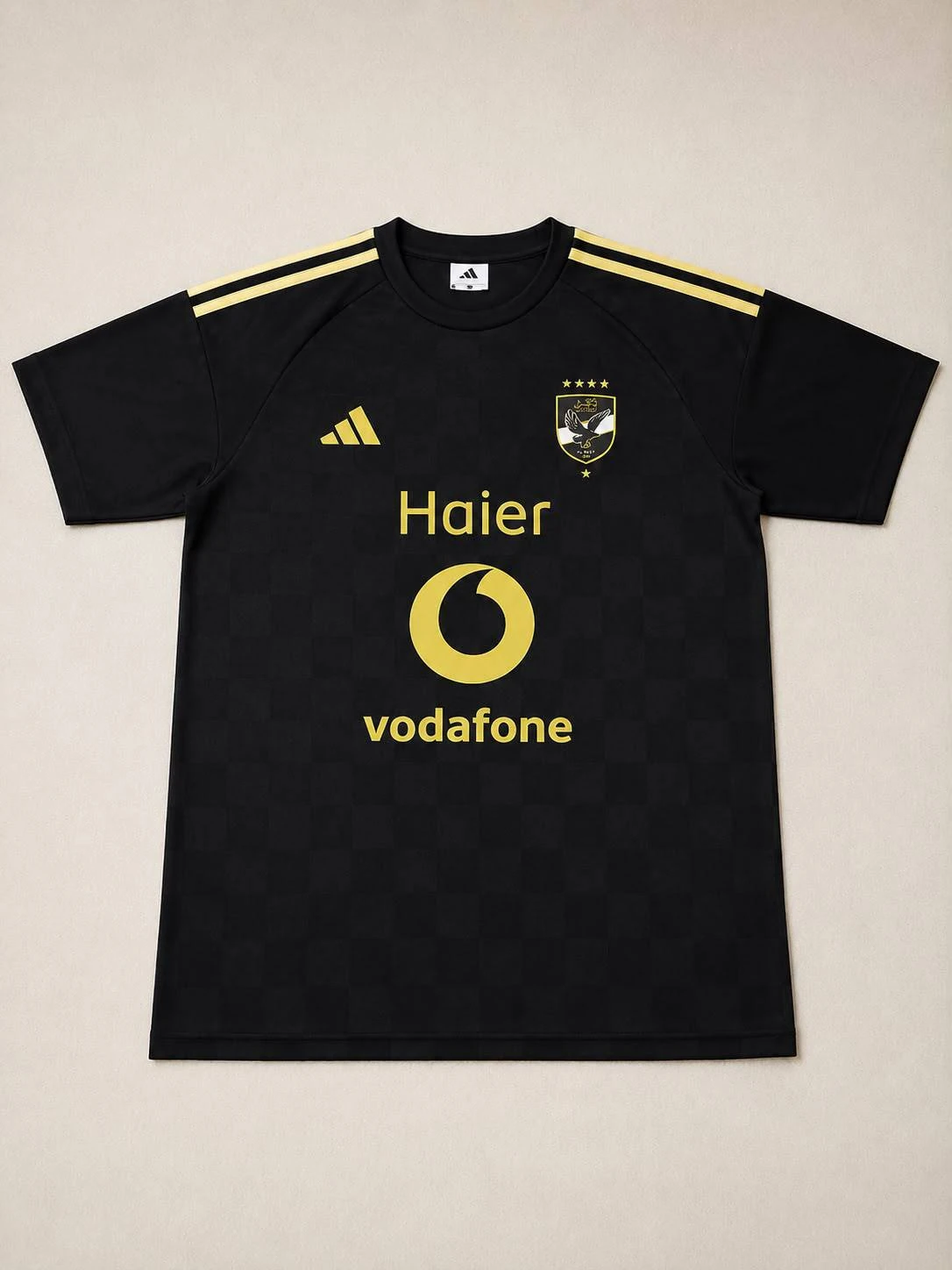
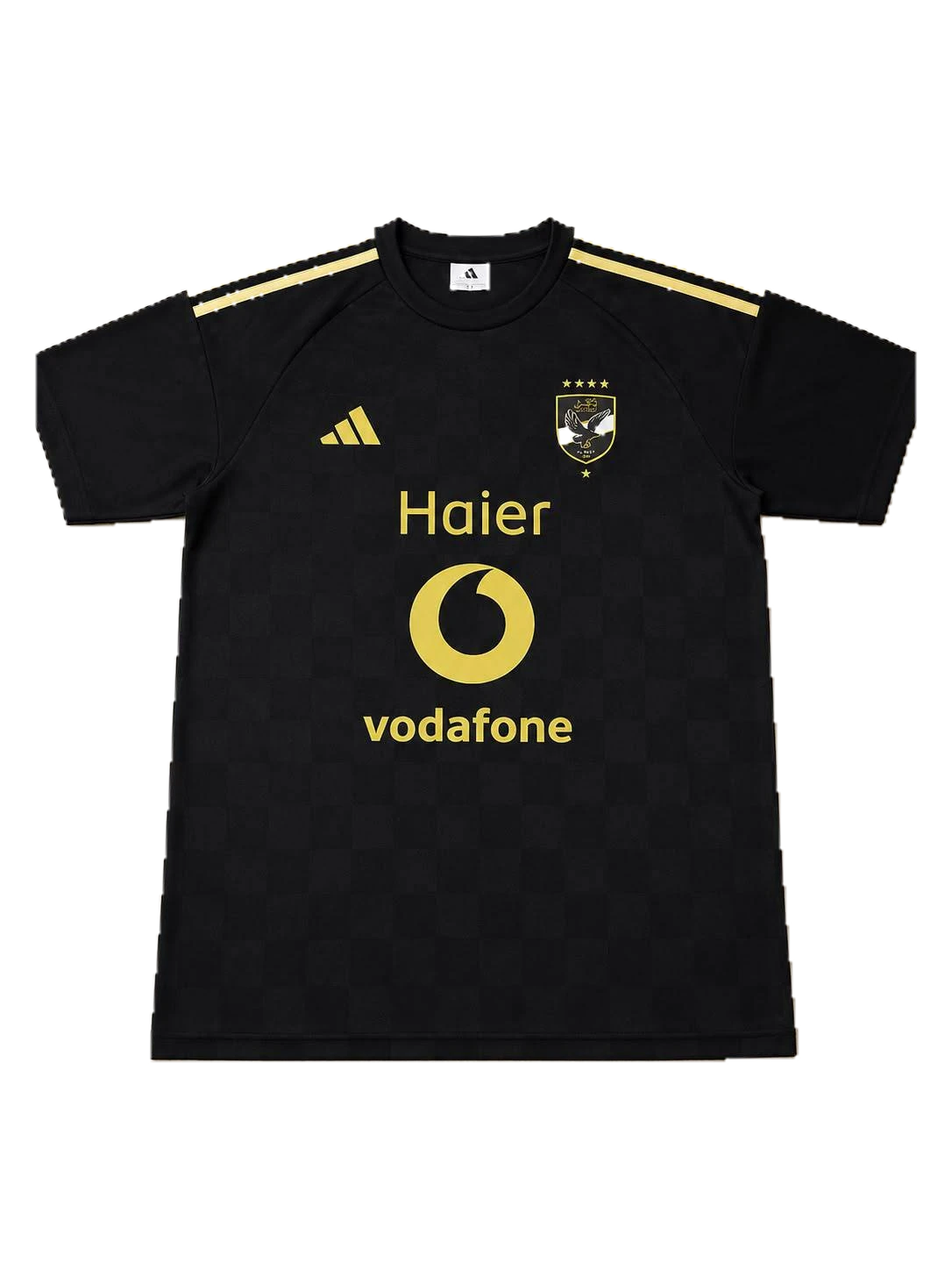
Add files via upload

diff --git a/index.html b/index.html
@@ -44,10 +44,10 @@
     .hero{padding:67px 0 42px;min-height:600px;display:grid;grid-template-columns:1fr .92fr;align-items:center;gap:66px;position:relative}.hero-copy{position:relative;z-index:2;animation:slideDown .8s var(--ease) both}.eyebrow{display:flex;align-items:center;gap:10px;color:#b5b6b8;font-size:10px;font-weight:800;letter-spacing:.06em}.eyebrow-line{width:25px;height:1px;background:var(--accent)}.hero h1{margin:24px 0 17px;font-weight:900;letter-spacing:-.065em;font-size:clamp(46px,6.3vw,88px);line-height:1.15}.hero h1 span{color:transparent;-webkit-text-stroke:1px rgba(245,245,240,.8)}.hero h1 .period{color:var(--accent);-webkit-text-stroke:0}.hero-desc{max-width:460px;color:#a8a9ac;font-size:14px;line-height:2.05;margin:0}.hero-actions{display:flex;align-items:center;gap:12px;flex-wrap:wrap;margin-top:28px}.btn{display:inline-flex;align-items:center;justify-content:center;gap:13px;min-height:49px;padding:0 19px;border:1px solid transparent;font-size:12px;font-weight:900;transition:transform .25s,box-shadow .25s,background .25s}.btn:hover{transform:translateY(-3px)}.btn-primary{background:var(--accent);color:#10120b}.btn-primary:hover{box-shadow:0 9px 28px rgba(255,255,255,.17)}.btn-secondary{border-color:rgba(255,255,255,.2);color:#eee}.btn-secondary:hover{background:#191a1c}.hero-details{display:flex;align-items:center;gap:19px;margin-top:43px;padding-top:18px;border-top:1px solid var(--line);max-width:510px}.detail{display:flex;align-items:center;gap:9px;color:#adaeb0;font-size:10px;font-weight:700}.detail svg{width:19px;height:19px;stroke:var(--accent);fill:none;stroke-width:1.6;flex-shrink:0}.detail-sep{height:27px;width:1px;background:var(--line)}
     .hero-visual{position:relative;justify-self:center;width:min(100%,445px);animation:floatIn 1s .12s var(--ease) both}.hero-glow{position:absolute;inset:10% -8% 7%;background:radial-gradient(ellipse,rgba(255,255,255,.16),transparent 69%);filter:blur(26px);pointer-events:none}.hero-frame{position:relative;overflow:hidden;border:1px solid rgba(255,255,255,.19);background:transparent;box-shadow:0 32px 90px rgba(0,0,0,.5);transform:rotate(-1deg);translate:0 0;animation:heroDrift 5.8s ease-in-out 1.2s infinite;transition:transform .5s var(--ease),box-shadow .5s}.hero-frame:hover{transform:rotate(0) scale(1.015);box-shadow:0 30px 90px rgba(255,255,255,.1)}.hero-frame img{display:block;width:100%;height:auto;object-fit:contain;filter:drop-shadow(0 25px 26px rgba(0,0,0,.42))}.hero-badge{position:absolute;top:15px;right:15px;padding:8px 12px;background:rgba(8,9,10,.89);font-size:9px;font-weight:900;letter-spacing:.08em}.hero-badge i{display:inline-block;width:6px;height:6px;border-radius:50%;background:var(--accent);margin-left:7px}.hero-image-label{position:absolute;bottom:15px;left:15px;padding:10px 12px;background:#111214;color:#fff;font-size:10px;font-weight:800}.hero-sticker{position:absolute;left:-32px;bottom:48px;z-index:3;padding:13px 17px;background:#161719;border:1px solid rgba(255,255,255,.14);box-shadow:0 14px 40px rgba(0,0,0,.35);transform:rotate(2deg)}.hero-sticker small{display:block;color:#a0a1a3;font-size:9px}.hero-sticker strong{font-size:14px}.hero-sticker strong span{color:var(--accent)}.hero-index{position:absolute;right:-32px;top:18%;writing-mode:vertical-rl;color:#77797c;font-size:8px;letter-spacing:.15em}
     .ticker{overflow:hidden;border-block:1px solid var(--line);background:#111214}.ticker-track{display:flex;justify-content:space-around;align-items:center;gap:28px;min-width:max-content;width:max-content;padding:14px 20px;color:#a7a8aa;font-size:10px;font-weight:900;letter-spacing:.08em;animation:tickerMarquee 30s linear infinite;will-change:transform}.ticker:hover .ticker-track{animation-play-state:paused}.ticker-track i{font-style:normal;color:var(--accent);font-size:14px}
-    .collection{padding:93px 0 100px}.section-top{display:flex;align-items:flex-end;justify-content:space-between;gap:24px;margin-bottom:31px}.section-kicker{font-size:10px;letter-spacing:.07em;color:#a0a1a4;font-weight:900}.section-kicker span{color:var(--accent)}.section-heading{margin:10px 0 0;font-size:clamp(34px,4.8vw,57px);font-weight:900;letter-spacing:-.065em;line-height:1.22}.section-heading span{color:transparent;-webkit-text-stroke:1px rgba(245,245,240,.72)}.section-intro{max-width:315px;color:#9a9b9e;font-size:12px;line-height:2;margin:0 0 5px}.collection-toolbar{display:flex;align-items:center;justify-content:space-between;border-block:1px solid var(--line);padding:13px 0;margin-bottom:22px;gap:20px}.collection-caption{color:#b9babc;font-size:11px;font-weight:800}.collection-caption b{color:var(--accent);margin-left:6px}.available{display:flex;align-items:center;gap:8px;color:#aeb0b2;font-size:9px;font-weight:800;letter-spacing:.07em}.available i{width:6px;height:6px;border-radius:50%;background:var(--accent);box-shadow:0 0 10px rgba(255,255,255,.55)}.product-grid{display:grid;grid-template-columns:repeat(3,minmax(0,1fr));gap:17px}.product-card{min-width:0;border:1px solid rgba(255,255,255,.1);background:#101113;transition:border-color .35s,background .35s,transform .18s ease;transform-style:preserve-3d;--rx:0deg;--ry:0deg;transform:perspective(1000px) rotateX(var(--rx)) rotateY(var(--ry));will-change:transform}.product-card:hover{border-color:rgba(255,255,255,.45);background:#141517}.product-visual{position:relative;overflow:hidden;background:radial-gradient(ellipse at 50% 42%,#222426 0%,#131416 48%,#0d0e0f 100%);isolation:isolate}.product-visual::before{content:"";position:absolute;z-index:1;top:-100%;left:-55%;width:34%;height:300%;pointer-events:none;opacity:0;background:linear-gradient(90deg,transparent,rgba(255,255,255,.18),transparent);transform:rotate(24deg);transition:transform .9s var(--ease),opacity .25s}.product-card:hover .product-visual::before{opacity:1;transform:translateX(460%) rotate(24deg)}.product-visual::after{content:"";position:absolute;inset:0;pointer-events:none;background:linear-gradient(180deg,rgba(0,0,0,.05),transparent 22%,transparent 76%,rgba(0,0,0,.12));opacity:.35;transition:opacity .25s}.product-card:hover .product-visual::after{opacity:.45}.product-image{display:block;width:100%;aspect-ratio:3/4;object-fit:contain;padding:11px 6px;filter:drop-shadow(0 18px 18px rgba(0,0,0,.42));transition:transform .7s var(--ease),filter .7s;will-change:transform;translate:0 0;animation:productDrift 6s ease-in-out infinite}.product-card:nth-child(2) .product-image{animation-delay:-2s}.product-card:nth-child(3) .product-image{animation-delay:-4s}.product-card:hover .product-image{transform:scale(1.045);filter:contrast(1.03) drop-shadow(0 18px 20px rgba(255,255,255,.08))}.product-index{position:absolute;z-index:2;top:13px;right:13px;padding:7px 9px;background:rgba(9,10,11,.84);color:#f2f2ef;font-size:9px;font-weight:900;direction:ltr}.product-tag{position:absolute;z-index:2;top:13px;left:13px;padding:6px 9px;background:var(--accent);color:#10120b;font-size:8px;font-weight:900}.product-bottomline{position:absolute;bottom:0;right:0;left:0;z-index:2;display:flex;align-items:center;justify-content:space-between;padding:12px 13px;color:#f5f5f1;font-size:8px;font-weight:900;letter-spacing:.05em;background:linear-gradient(0deg,rgba(0,0,0,.8),transparent)}.product-info{display:flex;align-items:flex-start;justify-content:space-between;gap:12px;padding:18px 17px 10px}.product-type{margin:0 0 5px;color:#a5a7a9;font-size:9px;font-weight:800;letter-spacing:.06em}.product-name{margin:0;font-size:17px;line-height:1.6;font-weight:900}.product-description{margin:4px 0 0;color:#85878a;font-size:11px}.product-number{white-space:nowrap;color:#787a7c;font-size:9px;font-weight:800;direction:ltr;margin-top:6px}.view-btn{display:flex;align-items:center;justify-content:space-between;gap:10px;width:calc(100% - 34px);margin:12px 17px 17px;padding:12px 13px;border:1px solid rgba(255,255,255,.15);background:transparent;color:#f3f3ef;cursor:pointer;text-align:right;font-size:11px;font-weight:800;transition:background .25s,border-color .25s}.view-btn:hover{background:#1b1d1f;border-color:rgba(255,255,255,.4)}.view-btn span:last-child{color:var(--accent);font-size:17px;line-height:1}
+    .collection{padding:93px 0 100px}.section-top{display:flex;align-items:flex-end;justify-content:space-between;gap:24px;margin-bottom:31px}.section-kicker{font-size:10px;letter-spacing:.07em;color:#a0a1a4;font-weight:900}.section-kicker span{color:var(--accent)}.section-heading{margin:10px 0 0;font-size:clamp(34px,4.8vw,57px);font-weight:900;letter-spacing:-.065em;line-height:1.22}.section-heading span{color:transparent;-webkit-text-stroke:1px rgba(245,245,240,.72)}.section-intro{max-width:315px;color:#9a9b9e;font-size:12px;line-height:2;margin:0 0 5px}.collection-toolbar{display:flex;align-items:center;justify-content:space-between;border-block:1px solid var(--line);padding:13px 0;margin-bottom:22px;gap:20px}.collection-caption{color:#b9babc;font-size:11px;font-weight:800}.collection-caption b{color:var(--accent);margin-left:6px}.available{display:flex;align-items:center;gap:8px;color:#aeb0b2;font-size:9px;font-weight:800;letter-spacing:.07em}.available i{width:6px;height:6px;border-radius:50%;background:var(--accent);box-shadow:0 0 10px rgba(255,255,255,.55)}.product-grid{display:grid;grid-template-columns:repeat(3,minmax(0,1fr));gap:17px}.product-card{min-width:0;border:1px solid rgba(255,255,255,.1);background:#101113;transition:border-color .35s,background .35s,transform .18s ease;transform-style:preserve-3d;--rx:0deg;--ry:0deg;transform:perspective(1000px) rotateX(var(--rx)) rotateY(var(--ry));will-change:transform}.product-card:hover{border-color:rgba(255,255,255,.45);background:#141517}.product-visual{position:relative;overflow:hidden;background:radial-gradient(ellipse at 50% 42%,#222426 0%,#131416 48%,#0d0e0f 100%);isolation:isolate}.product-visual::before{content:"";position:absolute;z-index:1;top:-100%;left:-55%;width:34%;height:300%;pointer-events:none;opacity:0;background:linear-gradient(90deg,transparent,rgba(255,255,255,.18),transparent);transform:rotate(24deg);transition:transform .9s var(--ease),opacity .25s}.product-card:hover .product-visual::before{opacity:1;transform:translateX(460%) rotate(24deg)}.product-visual::after{content:"";position:absolute;inset:0;pointer-events:none;background:linear-gradient(180deg,rgba(0,0,0,.05),transparent 22%,transparent 76%,rgba(0,0,0,.12));opacity:.35;transition:opacity .25s}.product-card:hover .product-visual::after{opacity:.45}.product-image{display:block;width:100%;aspect-ratio:3/4;object-fit:contain;padding:11px 6px;filter:drop-shadow(0 18px 18px rgba(0,0,0,.42));transition:transform .7s var(--ease),filter .7s;will-change:transform;translate:0 0;animation:productDrift 6s ease-in-out infinite}.product-card:nth-child(2) .product-image{animation-delay:-2s}.product-card:nth-child(3) .product-image{animation-delay:-4s}.product-card:hover .product-image{transform:scale(1.045);filter:contrast(1.03) drop-shadow(0 18px 20px rgba(255,255,255,.08))}.product-index{position:absolute;z-index:2;top:13px;right:13px;padding:7px 9px;background:rgba(9,10,11,.84);color:#f2f2ef;font-size:9px;font-weight:900;direction:ltr}.product-tag{position:absolute;z-index:2;top:13px;left:13px;padding:6px 9px;background:var(--accent);color:#10120b;font-size:8px;font-weight:900}.product-bottomline{position:absolute;bottom:0;right:0;left:0;z-index:2;display:flex;align-items:center;justify-content:space-between;padding:12px 13px;color:#f5f5f1;font-size:8px;font-weight:900;letter-spacing:.05em;background:linear-gradient(0deg,rgba(0,0,0,.8),transparent)}.product-info{display:flex;align-items:flex-start;justify-content:space-between;gap:12px;padding:18px 17px 10px}.product-type{margin:0 0 5px;color:#a5a7a9;font-size:9px;font-weight:800;letter-spacing:.06em}.product-name{margin:0;font-size:17px;line-height:1.6;font-weight:900}.product-description{margin:4px 0 0;color:#85878a;font-size:11px}.product-price{margin:11px 0 0;color:var(--accent);font-size:18px;font-weight:950;letter-spacing:-.02em}.product-price small{font-size:10px;font-weight:800;color:#bfc1c2}.product-number{white-space:nowrap;color:#787a7c;font-size:9px;font-weight:800;direction:ltr;margin-top:6px}.view-btn{display:flex;align-items:center;justify-content:space-between;gap:10px;width:calc(100% - 34px);margin:12px 17px 17px;padding:12px 13px;border:1px solid rgba(255,255,255,.15);background:transparent;color:#f3f3ef;cursor:pointer;text-align:right;font-size:11px;font-weight:800;transition:background .25s,border-color .25s}.view-btn:hover{background:#1b1d1f;border-color:rgba(255,255,255,.4)}.view-btn span:last-child{color:var(--accent);font-size:17px;line-height:1}
     .location{padding:0 0 100px}.location-panel{position:relative;overflow:hidden;display:grid;grid-template-columns:1fr auto;align-items:center;gap:30px;padding:36px 39px;border:1px solid rgba(255,255,255,.13);background:linear-gradient(115deg,#151719,#0f1011 70%)}.location-panel::after{content:"S7";position:absolute;left:24%;top:-76px;font-size:280px;font-weight:900;line-height:1;color:rgba(255,255,255,.025);pointer-events:none;direction:ltr}.location-copy{position:relative;z-index:1}.location-label{display:flex;align-items:center;gap:9px;color:#a7a9ab;font-size:10px;font-weight:900}.location-label svg{width:17px;height:17px;stroke:var(--accent);fill:none;stroke-width:1.7}.location-title{margin:10px 0 8px;font-size:clamp(27px,3.5vw,43px);line-height:1.35;font-weight:900;letter-spacing:-.05em}.location-address{margin:0;max-width:650px;color:#a9aaac;font-size:13px;line-height:2}.location-hint{margin:8px 0 0;color:#7f8184;font-size:11px}.location-actions{position:relative;z-index:1;display:flex;flex-direction:column;gap:10px;min-width:190px}.location-actions .btn{white-space:nowrap}.social{padding:0 0 85px}.social-panel{display:flex;align-items:center;justify-content:space-between;gap:22px;padding:21px 0;border-top:1px solid var(--line);border-bottom:1px solid var(--line)}.social-copy small{display:block;color:#a5a6a8;font-size:9px;font-weight:900;letter-spacing:.08em}.social-copy h2{margin:3px 0 0;font-size:clamp(21px,3vw,30px);font-weight:900}.social-copy h2 span{color:var(--accent);direction:ltr;unicode-bidi:isolate}.instagram-button{display:inline-flex;align-items:center;justify-content:center;gap:10px;min-height:48px;padding:0 18px;border:1px solid rgba(255,255,255,.2);font-size:11px;font-weight:900;transition:background .2s,border .2s}.instagram-button:hover{background:#191a1c;border-color:rgba(255,255,255,.45)}.instagram-button svg{width:19px;height:19px;fill:none;stroke:currentColor;stroke-width:1.7}
     footer{border-top:1px solid var(--line);padding:24px 0 27px}.footer-top,.footer-bottom{display:flex;align-items:center;justify-content:space-between;gap:20px}.footer-motto{color:#85878a;font-size:9px;font-weight:800;letter-spacing:.07em}.footer-bottom{margin-top:22px;padding-top:16px;border-top:1px solid rgba(255,255,255,.07);color:#747679;font-size:9px;font-weight:800}.footer-links{display:flex;align-items:center;gap:20px}.footer-links a:hover{color:var(--accent)}
-    .modal{position:fixed;inset:0;z-index:80;display:none;align-items:center;justify-content:center;padding:20px;background:rgba(0,0,0,.86);backdrop-filter:blur(10px)}.modal.open{display:flex;animation:fadeIn .2s ease both}.modal-content{position:relative;display:grid;grid-template-columns:minmax(0,520px) minmax(200px,310px);max-width:min(930px,100%);max-height:90vh;border:1px solid rgba(255,255,255,.2);background:#111214;box-shadow:0 35px 100px #000;animation:modalIn .28s var(--ease) both;direction:rtl}.modal-image-wrap{background:radial-gradient(ellipse at 50% 40%,#232527,#101112 72%);min-width:0;overflow:hidden}.modal-image{display:block;max-height:90vh;width:100%;height:100%;object-fit:contain;aspect-ratio:1/1;padding:14px;filter:drop-shadow(0 18px 20px rgba(0,0,0,.35))}.modal-info{align-self:center;padding:30px}.modal-kicker{color:var(--accent);font-size:10px;font-weight:900}.modal-title{margin:10px 0;font-size:27px;font-weight:900;line-height:1.5}.modal-desc{color:#a1a3a5;font-size:12px;line-height:2}.modal-actions{display:flex;flex-direction:column;gap:10px;margin-top:22px}.close-modal{position:absolute;top:12px;left:12px;z-index:2;width:40px;height:40px;border:1px solid rgba(255,255,255,.25);background:#111214;color:white;font-size:25px;cursor:pointer}.toast{position:fixed;right:50%;bottom:23px;z-index:100;transform:translate(50%,20px);padding:11px 17px;background:var(--accent);color:#10120b;font-size:12px;font-weight:900;opacity:0;pointer-events:none;transition:opacity .2s,transform .2s}.toast.show{opacity:1;transform:translate(50%,0)}
+    .modal{position:fixed;inset:0;z-index:80;display:none;align-items:center;justify-content:center;padding:20px;background:rgba(0,0,0,.86);backdrop-filter:blur(10px)}.modal.open{display:flex;animation:fadeIn .2s ease both}.modal-content{position:relative;display:grid;grid-template-columns:minmax(0,520px) minmax(200px,310px);max-width:min(930px,100%);max-height:90vh;border:1px solid rgba(255,255,255,.2);background:#111214;box-shadow:0 35px 100px #000;animation:modalIn .28s var(--ease) both;direction:rtl}.modal-image-wrap{background:radial-gradient(ellipse at 50% 40%,#232527,#101112 72%);min-width:0;overflow:hidden}.modal-image{display:block;max-height:90vh;width:100%;height:100%;object-fit:contain;aspect-ratio:1/1;padding:14px;filter:drop-shadow(0 18px 20px rgba(0,0,0,.35))}.modal-info{align-self:center;padding:30px}.modal-kicker{color:var(--accent);font-size:10px;font-weight:900}.modal-title{margin:10px 0;font-size:27px;font-weight:900;line-height:1.5}.modal-price{margin:13px 0 0;color:var(--accent);font-size:25px;font-weight:950;letter-spacing:-.035em}.modal-price small{font-size:12px;color:#c6c7c8;font-weight:800}.modal-desc{color:#a1a3a5;font-size:12px;line-height:2}.modal-actions{display:flex;flex-direction:column;gap:10px;margin-top:22px}.close-modal{position:absolute;top:12px;left:12px;z-index:2;width:40px;height:40px;border:1px solid rgba(255,255,255,.25);background:#111214;color:white;font-size:25px;cursor:pointer}.toast{position:fixed;right:50%;bottom:23px;z-index:100;transform:translate(50%,20px);padding:11px 17px;background:var(--accent);color:#10120b;font-size:12px;font-weight:900;opacity:0;pointer-events:none;transition:opacity .2s,transform .2s}.toast.show{opacity:1;transform:translate(50%,0)}
     .reveal{opacity:0;transform:translateY(18px);transition:opacity .7s var(--ease),transform .7s var(--ease)}.reveal.visible{opacity:1;transform:translateY(0)}.product-card.reveal{transition-delay:var(--delay,0ms);transform:perspective(1000px) rotateX(var(--rx)) rotateY(var(--ry)) translateY(18px)}.product-card.reveal.visible{transform:perspective(1000px) rotateX(var(--rx)) rotateY(var(--ry)) translateY(0)}
     @keyframes slideDown{from{opacity:0;transform:translateY(-22px)}to{opacity:1;transform:translateY(0)}}@keyframes floatIn{from{opacity:0;transform:translateY(25px) rotate(-3deg)}to{opacity:1;transform:translateY(0) rotate(-1deg)}}@keyframes heroDrift{0%,100%{translate:0 0}50%{translate:0 -9px}}@keyframes productDrift{0%,100%{translate:0 0}50%{translate:0 -5px}}@keyframes tickerMarquee{from{transform:translateX(0)}to{transform:translateX(-50%)}}@keyframes cardEnter{from{opacity:0;transform:translateY(20px) perspective(1000px) rotateX(0) rotateY(0)}to{opacity:1;transform:perspective(1000px) rotateX(var(--rx)) rotateY(var(--ry))}}@keyframes fadeIn{from{opacity:0}to{opacity:1}}@keyframes modalIn{from{opacity:0;transform:translateY(12px) scale(.98)}to{opacity:1;transform:translateY(0) scale(1)}}
     @media(max-width:900px){.wrap{width:min(var(--max),calc(100% - 36px))}.header-inner{height:72px}.nav{gap:16px}.nav a{font-size:11px}.brand{min-width:auto}.brand-name{font-size:19px}.hero{gap:30px;min-height:520px;padding-top:48px}.hero h1{font-size:clamp(42px,6vw,65px)}.hero-details{gap:12px}.product-grid{gap:12px}.product-info{padding:14px 12px 8px}.product-name{font-size:15px}.view-btn{width:calc(100% - 24px);margin:10px 12px 12px}}
@@ -308,17 +308,17 @@
       </div>
       <p class="filter-empty" id="filter-empty" hidden>مفيش تصميمات في الاختيار ده حاليًا.</p>
       <div class="product-grid">
-        <article class="product-card reveal" data-team="barcelona" style="--delay:0ms"><div class="product-visual"><span class="product-index">01 / S7</span><span class="product-tag">برشلونة</span><img class="product-image" src="assets/products/barcelona-contrast.webp" alt="تيشرت برشلونة الرمادي الفاتح بأكمام سوداء" loading="lazy" decoding="async"><div class="product-bottomline"><span>رمادي × أسود</span><span>SE7EN</span></div></div><div class="product-info"><div><p class="product-type">ستايل كروي</p><h3 class="product-name">تيشرت برشلونة</h3><p class="product-description">تصميم رياضي رمادي وأسود بطابع برشلوني</p></div><span class="product-number">01</span></div><button class="view-btn" type="button" data-product="barcelona"><span>عرض الصورة والتفاصيل</span><span>↗</span></button></article>
-        <article class="product-card reveal" data-team="ahly" style="--delay:70ms"><div class="product-visual"><span class="product-index">02 / S7</span><span class="product-tag">الأهلي</span><img class="product-image" src="assets/products/al-ahly-pharaonic.webp" alt="تيشرت الأهلي الأسود بتفاصيل ذهبية وحمراء بطابع فرعوني" loading="lazy" decoding="async"><div class="product-bottomline"><span>أسود × ذهبي × أحمر</span><span>SE7EN</span></div></div><div class="product-info"><div><p class="product-type">تفاصيل فرعونية</p><h3 class="product-name">تيشرت الأهلي الفرعوني</h3><p class="product-description">تصميم أسود بلمسات ذهبية وحمراء ورسومات بطابع فرعوني</p></div><span class="product-number">02</span></div><button class="view-btn" type="button" data-product="ahly"><span>عرض الصورة والتفاصيل</span><span>↗</span></button></article>
-        <article class="product-card reveal" data-team="zamalek" style="--delay:140ms"><div class="product-visual"><span class="product-index">03 / S7</span><span class="product-tag">الزمالك</span><img class="product-image" src="assets/products/nile-developments.webp" alt="تيشرت الزمالك الأسود بخطوط خضراء فوسفورية" loading="lazy" decoding="async"><div class="product-bottomline"><span>أسود × أخضر فوسفوري</span><span>SE7EN</span></div></div><div class="product-info"><div><p class="product-type">ستايل رياضي</p><h3 class="product-name">تيشرت الزمالك الأسود</h3><p class="product-description">تصميم أسود بخطوط خضراء فوسفورية وتفاصيل رياضية لافتة</p></div><span class="product-number">03</span></div><button class="view-btn" type="button" data-product="nile"><span>عرض الصورة والتفاصيل</span><span>↗</span></button></article>
-        <article class="product-card reveal" data-team="zamalek" style="--delay:210ms"><div class="product-visual"><span class="product-index">04 / S7</span><span class="product-tag">الزمالك</span><img class="product-image" src="assets/products/zamalek-white-red-gallery.webp" alt="تيشرت الزمالك الأبيض بتفاصيل حمراء" loading="lazy" decoding="async"><div class="product-bottomline"><span>أبيض × أحمر</span><span>SE7EN</span></div></div><div class="product-info"><div><p class="product-type">ألوان النادي</p><h3 class="product-name">تيشرت الزمالك الأبيض</h3><p class="product-description">تصميم أبيض بخطوط جانبية حمراء وتفاصيل رياضية</p></div><span class="product-number">04</span></div><button class="view-btn" type="button" data-product="zamalek-white"><span>عرض الصورة والتفاصيل</span><span>↗</span></button></article>
-        <article class="product-card reveal" data-team="ahly" style="--delay:280ms"><div class="product-visual"><span class="product-index">05 / S7</span><span class="product-tag">الأهلي</span><img class="product-image" src="assets/products/al-ahly-black-gold-gallery.webp" alt="تيشرت الأهلي الأسود بخطوط وتفاصيل ذهبية" loading="lazy" decoding="async"><div class="product-bottomline"><span>أسود × ذهبي</span><span>SE7EN</span></div></div><div class="product-info"><div><p class="product-type">كلاسيك داكن</p><h3 class="product-name">تيشرت الأهلي الأسود والذهبي</h3><p class="product-description">قميص أسود بخطوط ذهبية وشعار النادي وتفاصيل كلاسيكية</p></div><span class="product-number">05</span></div><button class="view-btn" type="button" data-product="ahly-black-gold"><span>عرض الصورة والتفاصيل</span><span>↗</span></button></article>
-        <article class="product-card reveal" data-team="ahly" style="--delay:350ms"><div class="product-visual"><span class="product-index">06 / S7</span><span class="product-tag">الأهلي</span><img class="product-image" src="assets/products/al-ahly-red-classic-gallery.webp" alt="تيشرت الأهلي الأحمر الكلاسيكي بخطوط سوداء" loading="lazy" decoding="async"><div class="product-bottomline"><span>أحمر × أسود</span><span>SE7EN</span></div></div><div class="product-info"><div><p class="product-type">كلاسيك النادي</p><h3 class="product-name">تيشرت الأهلي الأحمر</h3><p class="product-description">تصميم أحمر بخطوط وتفاصيل سوداء بطابع كروي كلاسيكي</p></div><span class="product-number">06</span></div><button class="view-btn" type="button" data-product="ahly-red"><span>عرض الصورة والتفاصيل</span><span>↗</span></button></article>
-        <article class="product-card reveal" data-team="brazil" style="--delay:420ms"><div class="product-visual"><span class="product-index">07 / S7</span><span class="product-tag">البرازيل</span><img class="product-image" src="assets/products/brazil-ronaldo9-gallery.webp" alt="قميص البرازيل الأسود والأصفر باسم رونالدو ورقم 9 من الأمام والخلف" loading="lazy" decoding="async"><div class="product-bottomline"><span>أسود × أصفر</span><span>RONALDO 9</span></div></div><div class="product-info"><div><p class="product-type">أساطير الكرة</p><h3 class="product-name">تيشرت البرازيل — رونالدو 9</h3><p class="product-description">تصميم أسود بتفاصيل صفراء مع اسم رونالدو ورقم 9، ويعرض الأمام والخلف</p></div><span class="product-number">07</span></div><button class="view-btn" type="button" data-product="brazil-ronaldo"><span>عرض الصورة والتفاصيل</span><span>↗</span></button></article>
-        <article class="product-card reveal" data-team="manutd" style="--delay:490ms"><div class="product-visual"><span class="product-index">08 / S7</span><span class="product-tag">مانشستر يونايتد</span><img class="product-image" src="assets/products/man-utd-black-aig-gallery.webp" alt="تيشرت مانشستر يونايتد الأسود الكلاسيكي بشعار AIG من الأمام والخلف" loading="lazy" decoding="async"><div class="product-bottomline"><span>أسود × أبيض</span><span>MAN UNITED</span></div></div><div class="product-info"><div><p class="product-type">كلاسيك أوروبي</p><h3 class="product-name">تيشرت مانشستر يونايتد الأسود</h3><p class="product-description">نسخة سوداء كلاسيكية بشعار AIG، مع عرض الأمام والخلف</p></div><span class="product-number">08</span></div><button class="view-btn" type="button" data-product="manutd-black"><span>عرض الصورة والتفاصيل</span><span>↗</span></button></article>
-        <article class="product-card reveal" data-team="manutd" style="--delay:560ms"><div class="product-visual"><span class="product-index">09 / S7</span><span class="product-tag">مانشستر يونايتد</span><img class="product-image" src="assets/products/man-utd-red-aig-gallery.webp" alt="تيشرت مانشستر يونايتد الأحمر الكلاسيكي بشعار AIG من الأمام والخلف" loading="lazy" decoding="async"><div class="product-bottomline"><span>أحمر × أبيض</span><span>MAN UNITED</span></div></div><div class="product-info"><div><p class="product-type">ألوان الشياطين الحمر</p><h3 class="product-name">تيشرت مانشستر يونايتد الأحمر</h3><p class="product-description">القميص الأحمر الكلاسيكي بشعار AIG وتفاصيل النادي</p></div><span class="product-number">09</span></div><button class="view-btn" type="button" data-product="manutd-red"><span>عرض الصورة والتفاصيل</span><span>↗</span></button></article>
-        <article class="product-card reveal" data-team="trabzonspor" style="--delay:630ms"><div class="product-visual"><span class="product-index">10 / S7</span><span class="product-tag">طرابزون سبور</span><img class="product-image" src="assets/products/trabzonspor-black-blue-gallery.webp" alt="تيشرت طرابزون سبور الأسود بتفاصيل زرقاء فاتحة" loading="lazy" decoding="async"><div class="product-bottomline"><span>أسود × أزرق</span><span>TRABZONSPOR</span></div></div><div class="product-info"><div><p class="product-type">ستايل تركي</p><h3 class="product-name">تيشرت طرابزون سبور</h3><p class="product-description">تصميم أسود مع أكتاف وتفاصيل زرقاء فاتحة</p></div><span class="product-number">10</span></div><button class="view-btn" type="button" data-product="trabzonspor"><span>عرض الصورة والتفاصيل</span><span>↗</span></button></article>
-        <article class="product-card reveal" data-team="realmadrid" style="--delay:700ms"><div class="product-visual"><span class="product-index">11 / S7</span><span class="product-tag">ريال مدريد</span><img class="product-image" src="assets/products/real-madrid-black-gallery.webp" alt="تيشرت ريال مدريد الأسود بتفاصيل بيضاء وشعار النادي" loading="lazy" decoding="async"><div class="product-bottomline"><span>أسود × أبيض</span><span>REAL MADRID</span></div></div><div class="product-info"><div><p class="product-type">ستايل ملكي</p><h3 class="product-name">تيشرت ريال مدريد الأسود</h3><p class="product-description">تصميم أسود بشعار ريال مدريد وتفاصيل رياضية كلاسيكية</p></div><span class="product-number">11</span></div><button class="view-btn" type="button" data-product="real-madrid"><span>عرض الصورة والتفاصيل</span><span>↗</span></button></article>
+        <article class="product-card reveal" data-team="barcelona" style="--delay:0ms"><div class="product-visual"><span class="product-index">01 / S7</span><span class="product-tag">برشلونة</span><img class="product-image" src="assets/products/barcelona-contrast.webp" alt="تيشرت برشلونة الرمادي الفاتح بأكمام سوداء" loading="lazy" decoding="async"><div class="product-bottomline"><span>رمادي × أسود</span><span>SE7EN</span></div></div><div class="product-info"><div><p class="product-type">ستايل كروي</p><h3 class="product-name">تيشرت برشلونة</h3><p class="product-description">تصميم رياضي رمادي وأسود بطابع برشلوني</p><p class="product-price">350 جنيه</p></div><span class="product-number">01</span></div><button class="view-btn" type="button" data-product="barcelona"><span>عرض الصورة والتفاصيل</span><span>↗</span></button></article>
+        <article class="product-card reveal" data-team="ahly" style="--delay:70ms"><div class="product-visual"><span class="product-index">02 / S7</span><span class="product-tag">الأهلي</span><img class="product-image" src="assets/products/al-ahly-pharaonic.webp" alt="تيشرت الأهلي الأسود بتفاصيل ذهبية وحمراء بطابع فرعوني" loading="lazy" decoding="async"><div class="product-bottomline"><span>أسود × ذهبي × أحمر</span><span>SE7EN</span></div></div><div class="product-info"><div><p class="product-type">تفاصيل فرعونية</p><h3 class="product-name">تيشرت الأهلي الفرعوني</h3><p class="product-description">تصميم أسود بلمسات ذهبية وحمراء ورسومات بطابع فرعوني</p><p class="product-price">350 جنيه</p></div><span class="product-number">02</span></div><button class="view-btn" type="button" data-product="ahly"><span>عرض الصورة والتفاصيل</span><span>↗</span></button></article>
+        <article class="product-card reveal" data-team="zamalek" style="--delay:140ms"><div class="product-visual"><span class="product-index">03 / S7</span><span class="product-tag">الزمالك</span><img class="product-image" src="assets/products/nile-developments.webp" alt="تيشرت الزمالك الأسود بخطوط خضراء فوسفورية" loading="lazy" decoding="async"><div class="product-bottomline"><span>أسود × أخضر فوسفوري</span><span>SE7EN</span></div></div><div class="product-info"><div><p class="product-type">ستايل رياضي</p><h3 class="product-name">تيشرت الزمالك الأسود</h3><p class="product-description">تصميم أسود بخطوط خضراء فوسفورية وتفاصيل رياضية لافتة</p><p class="product-price">350 جنيه</p></div><span class="product-number">03</span></div><button class="view-btn" type="button" data-product="nile"><span>عرض الصورة والتفاصيل</span><span>↗</span></button></article>
+        <article class="product-card reveal" data-team="zamalek" style="--delay:210ms"><div class="product-visual"><span class="product-index">04 / S7</span><span class="product-tag">الزمالك</span><img class="product-image" src="assets/products/zamalek-white-red-gallery.webp" alt="تيشرت الزمالك الأبيض بتفاصيل حمراء" loading="lazy" decoding="async"><div class="product-bottomline"><span>أبيض × أحمر</span><span>SE7EN</span></div></div><div class="product-info"><div><p class="product-type">ألوان النادي</p><h3 class="product-name">تيشرت الزمالك الأبيض</h3><p class="product-description">تصميم أبيض بخطوط جانبية حمراء وتفاصيل رياضية</p><p class="product-price">350 جنيه</p></div><span class="product-number">04</span></div><button class="view-btn" type="button" data-product="zamalek-white"><span>عرض الصورة والتفاصيل</span><span>↗</span></button></article>
+        <article class="product-card reveal" data-team="ahly" style="--delay:280ms"><div class="product-visual"><span class="product-index">05 / S7</span><span class="product-tag">الأهلي</span><img class="product-image" src="assets/products/al-ahly-black-gold-gallery.webp" alt="تيشرت الأهلي الأسود بخطوط وتفاصيل ذهبية" loading="lazy" decoding="async"><div class="product-bottomline"><span>أسود × ذهبي</span><span>SE7EN</span></div></div><div class="product-info"><div><p class="product-type">كلاسيك داكن</p><h3 class="product-name">تيشرت الأهلي الأسود والذهبي</h3><p class="product-description">قميص أسود بخطوط ذهبية وشعار النادي وتفاصيل كلاسيكية</p><p class="product-price">350 جنيه</p></div><span class="product-number">05</span></div><button class="view-btn" type="button" data-product="ahly-black-gold"><span>عرض الصورة والتفاصيل</span><span>↗</span></button></article>
+        <article class="product-card reveal" data-team="ahly" style="--delay:350ms"><div class="product-visual"><span class="product-index">06 / S7</span><span class="product-tag">الأهلي</span><img class="product-image" src="assets/products/al-ahly-red-classic-gallery.webp" alt="تيشرت الأهلي الأحمر الكلاسيكي بخطوط سوداء" loading="lazy" decoding="async"><div class="product-bottomline"><span>أحمر × أسود</span><span>SE7EN</span></div></div><div class="product-info"><div><p class="product-type">كلاسيك النادي</p><h3 class="product-name">تيشرت الأهلي الأحمر</h3><p class="product-description">تصميم أحمر بخطوط وتفاصيل سوداء بطابع كروي كلاسيكي</p><p class="product-price">350 جنيه</p></div><span class="product-number">06</span></div><button class="view-btn" type="button" data-product="ahly-red"><span>عرض الصورة والتفاصيل</span><span>↗</span></button></article>
+        <article class="product-card reveal" data-team="brazil" style="--delay:420ms"><div class="product-visual"><span class="product-index">07 / S7</span><span class="product-tag">البرازيل</span><img class="product-image" src="assets/products/brazil-ronaldo9-gallery.webp" alt="قميص البرازيل الأسود والأصفر باسم رونالدو ورقم 9 من الأمام والخلف" loading="lazy" decoding="async"><div class="product-bottomline"><span>أسود × أصفر</span><span>RONALDO 9</span></div></div><div class="product-info"><div><p class="product-type">أساطير الكرة</p><h3 class="product-name">تيشرت البرازيل — رونالدو 9</h3><p class="product-description">تصميم أسود بتفاصيل صفراء مع اسم رونالدو ورقم 9، ويعرض الأمام والخلف</p><p class="product-price">350 جنيه</p></div><span class="product-number">07</span></div><button class="view-btn" type="button" data-product="brazil-ronaldo"><span>عرض الصورة والتفاصيل</span><span>↗</span></button></article>
+        <article class="product-card reveal" data-team="manutd" style="--delay:490ms"><div class="product-visual"><span class="product-index">08 / S7</span><span class="product-tag">مانشستر يونايتد</span><img class="product-image" src="assets/products/man-utd-black-aig-gallery.webp" alt="تيشرت مانشستر يونايتد الأسود الكلاسيكي بشعار AIG من الأمام والخلف" loading="lazy" decoding="async"><div class="product-bottomline"><span>أسود × أبيض</span><span>MAN UNITED</span></div></div><div class="product-info"><div><p class="product-type">كلاسيك أوروبي</p><h3 class="product-name">تيشرت مانشستر يونايتد الأسود</h3><p class="product-description">نسخة سوداء كلاسيكية بشعار AIG، مع عرض الأمام والخلف</p><p class="product-price">350 جنيه</p></div><span class="product-number">08</span></div><button class="view-btn" type="button" data-product="manutd-black"><span>عرض الصورة والتفاصيل</span><span>↗</span></button></article>
+        <article class="product-card reveal" data-team="manutd" style="--delay:560ms"><div class="product-visual"><span class="product-index">09 / S7</span><span class="product-tag">مانشستر يونايتد</span><img class="product-image" src="assets/products/man-utd-red-aig-gallery.webp" alt="تيشرت مانشستر يونايتد الأحمر الكلاسيكي بشعار AIG من الأمام والخلف" loading="lazy" decoding="async"><div class="product-bottomline"><span>أحمر × أبيض</span><span>MAN UNITED</span></div></div><div class="product-info"><div><p class="product-type">ألوان الشياطين الحمر</p><h3 class="product-name">تيشرت مانشستر يونايتد الأحمر</h3><p class="product-description">القميص الأحمر الكلاسيكي بشعار AIG وتفاصيل النادي</p><p class="product-price">350 جنيه</p></div><span class="product-number">09</span></div><button class="view-btn" type="button" data-product="manutd-red"><span>عرض الصورة والتفاصيل</span><span>↗</span></button></article>
+        <article class="product-card reveal" data-team="trabzonspor" style="--delay:630ms"><div class="product-visual"><span class="product-index">10 / S7</span><span class="product-tag">طرابزون سبور</span><img class="product-image" src="assets/products/trabzonspor-black-blue-gallery.webp" alt="تيشرت طرابزون سبور الأسود بتفاصيل زرقاء فاتحة" loading="lazy" decoding="async"><div class="product-bottomline"><span>أسود × أزرق</span><span>TRABZONSPOR</span></div></div><div class="product-info"><div><p class="product-type">ستايل تركي</p><h3 class="product-name">تيشرت طرابزون سبور</h3><p class="product-description">تصميم أسود مع أكتاف وتفاصيل زرقاء فاتحة</p><p class="product-price">350 جنيه</p></div><span class="product-number">10</span></div><button class="view-btn" type="button" data-product="trabzonspor"><span>عرض الصورة والتفاصيل</span><span>↗</span></button></article>
+        <article class="product-card reveal" data-team="realmadrid" style="--delay:700ms"><div class="product-visual"><span class="product-index">11 / S7</span><span class="product-tag">ريال مدريد</span><img class="product-image" src="assets/products/real-madrid-black-gallery.webp" alt="تيشرت ريال مدريد الأسود بتفاصيل بيضاء وشعار النادي" loading="lazy" decoding="async"><div class="product-bottomline"><span>أسود × أبيض</span><span>REAL MADRID</span></div></div><div class="product-info"><div><p class="product-type">ستايل ملكي</p><h3 class="product-name">تيشرت ريال مدريد الأسود</h3><p class="product-description">تصميم أسود بشعار ريال مدريد وتفاصيل رياضية كلاسيكية</p><p class="product-price">350 جنيه</p></div><span class="product-number">11</span></div><button class="view-btn" type="button" data-product="real-madrid"><span>عرض الصورة والتفاصيل</span><span>↗</span></button></article>
       </div>
     </section>
     <section class="wrap location" id="location" aria-labelledby="location-title">
@@ -391,7 +391,7 @@
     </section>
   </main>
   <footer><div class="wrap"><div class="footer-top"><a class="brand" href="#top"><span class="brand-mark">S<span>7</span></span><span class="brand-name">Se7en<small>SPORTSWEAR / معرض</small></span></a><p class="footer-motto">ستايل رياضي بروح مختلفة.</p></div><div class="footer-bottom"><span>© <span id="year">2026</span> Se7en — جميع الحقوق محفوظة</span><div class="footer-links"><a href="#collection">المعرض</a><a href="#location">الموقع</a><a href="https://www.instagram.com/se7e_n770/" target="_blank" rel="noopener noreferrer">إنستجرام</a></div></div></div></footer>
-  <div class="modal" id="product-modal" role="dialog" aria-modal="true" aria-labelledby="modal-title" aria-hidden="true"><div class="modal-content"><button class="close-modal" id="close-modal" type="button" aria-label="إغلاق">×</button><div class="modal-image-wrap"><button class="modal-nav modal-prev" id="modal-prev" type="button" aria-label="التصميم السابق">‹</button><button class="modal-nav modal-next" id="modal-next" type="button" aria-label="التصميم التالي">›</button><img class="modal-image" id="modal-image" src="" alt=""><div class="modal-zoom-controls" role="group" aria-label="تكبير الصورة"><button type="button" data-zoom="out" aria-label="تصغير الصورة">−</button><span id="zoom-level" aria-live="polite">100%</span><button type="button" data-zoom="in" aria-label="تكبير الصورة">+</button></div></div><div class="modal-info"><div class="modal-kicker" id="modal-kicker">SE7EN / DESIGN</div><h2 class="modal-title" id="modal-title">تفاصيل التصميم</h2><p class="modal-desc" id="modal-desc"></p><div class="modal-actions"><a class="btn btn-primary" href="https://www.instagram.com/se7e_n770/" target="_blank" rel="noopener noreferrer">شوف الجديد على إنستجرام ↗</a><a class="btn btn-secondary" href="#location" data-scroll-location>مكاننا على الخريطة ↗</a></div></div></div></div>
+  <div class="modal" id="product-modal" role="dialog" aria-modal="true" aria-labelledby="modal-title" aria-hidden="true"><div class="modal-content"><button class="close-modal" id="close-modal" type="button" aria-label="إغلاق">×</button><div class="modal-image-wrap"><button class="modal-nav modal-prev" id="modal-prev" type="button" aria-label="التصميم السابق">‹</button><button class="modal-nav modal-next" id="modal-next" type="button" aria-label="التصميم التالي">›</button><img class="modal-image" id="modal-image" src="" alt=""><div class="modal-zoom-controls" role="group" aria-label="تكبير الصورة"><button type="button" data-zoom="out" aria-label="تصغير الصورة">−</button><span id="zoom-level" aria-live="polite">100%</span><button type="button" data-zoom="in" aria-label="تكبير الصورة">+</button></div></div><div class="modal-info"><div class="modal-kicker" id="modal-kicker">SE7EN / DESIGN</div><h2 class="modal-title" id="modal-title">تفاصيل التصميم</h2><p class="modal-desc" id="modal-desc"></p><p class="modal-price" id="modal-price">350 جنيه</p><div class="modal-actions"><a class="btn btn-primary" href="https://www.instagram.com/se7e_n770/" target="_blank" rel="noopener noreferrer">شوف الجديد على إنستجرام ↗</a><a class="btn btn-secondary" href="#location" data-scroll-location>مكاننا على الخريطة ↗</a></div></div></div></div>
   <button class="back-to-top" id="back-to-top" type="button" aria-label="الرجوع لأعلى الصفحة">↑</button>
   <div class="toast" id="toast" role="status" aria-live="polite">تم فتح تفاصيل التصميم</div>
   <script>

diff --git a/README.md b/README.md
@@ -30,3 +30,9 @@
 - إضافة تصنيفات الأهلي والزمالك وبرشلونة ومانشستر يونايتد والبرازيل وطرابزون سبور وريال مدريد.
 - تحسين صور المنتجات الجديدة لعرض متناسق على بطاقات المعرض، مع الاحتفاظ بالصورة الكاملة عند فتح التفاصيل.
 - الحفاظ على طريقة العرض الحالية بدون أسعار أو دفع إلكتروني.
+
+
+## تحديث V14
+- إزالة خلفيات صور التيشيرتات الثمانية الجديدة وتحويلها إلى صور شفافة متناسقة مع أول 3 منتجات.
+- توحيد سعر جميع التيشيرتات المعروضة على الموقع إلى 350 جنيهًا.
+- إظهار السعر في بطاقات المنتجات ونافذة تفاصيل المنتج.
